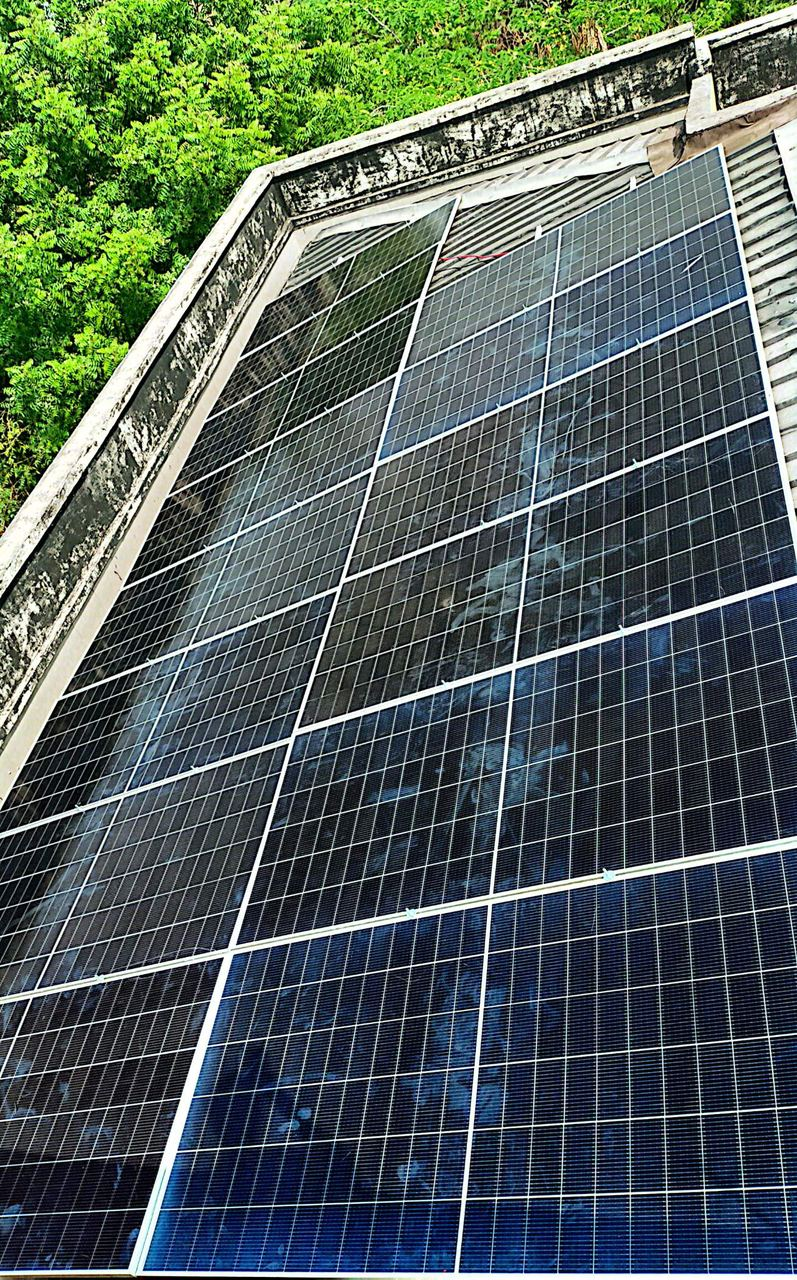
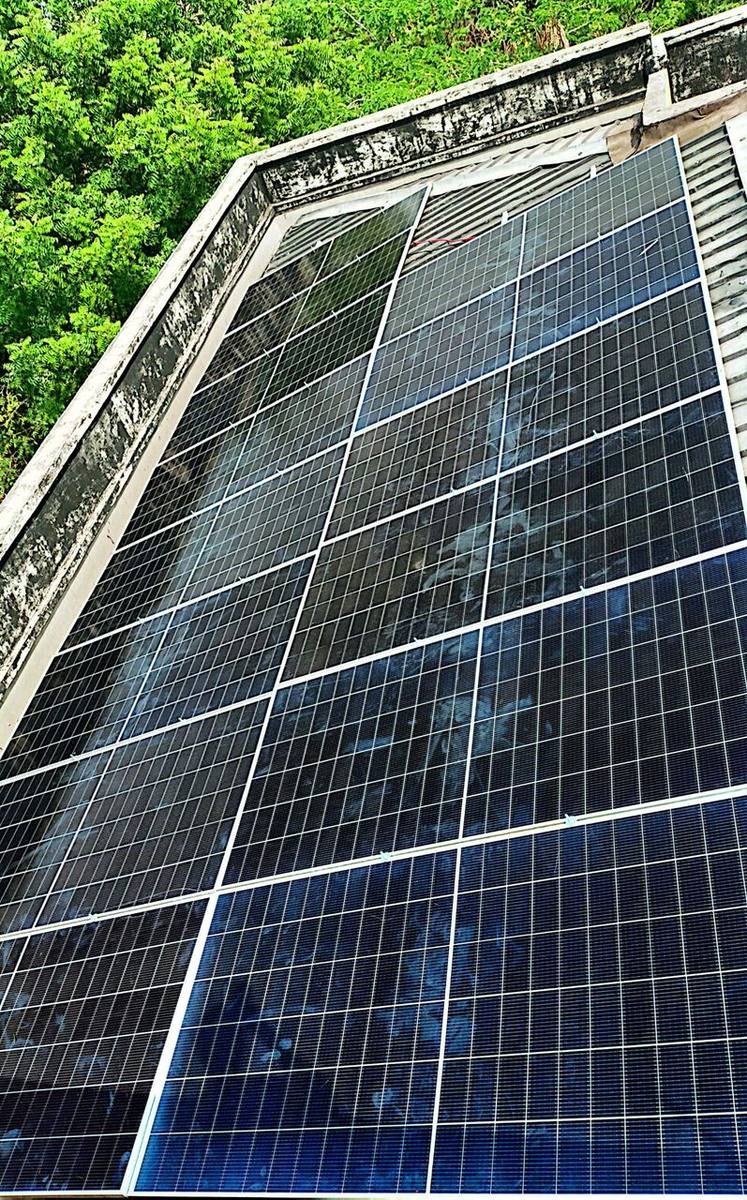
QA pass: SEO, honest claims, layout, images

diff --git a/site/about.html b/site/about.html
@@ -4,12 +4,12 @@
   <meta charset="UTF-8">
   <meta name="viewport" content="width=device-width, initial-scale=1.0">
   <title>About Us | Bolex Power Solutions — Solar & Electrical Experts</title>
-  <meta name="description" content="Six years of solar, inverter and electrical experience. Learn how Bolex Power Solutions sizes systems correctly, delivers promptly and supports customers after handover.">
+  <meta name="description" content="How Bolex Power Solutions sizes solar and inverter systems correctly, delivers promptly and supports customers after handover.">
   <link rel="canonical" href="https://bolexpower.com/about.html">
   <!-- Open Graph (social sharing) -->
   <meta property="og:type" content="website">
   <meta property="og:title" content="About Us | Bolex Power Solutions — Solar & Electrical Experts">
-  <meta property="og:description" content="Six years of solar, inverter and electrical experience. Learn how Bolex Power Solutions sizes systems correctly, delivers promptly and supports customers after handover.">
+  <meta property="og:description" content="How Bolex Power Solutions sizes solar and inverter systems correctly, delivers promptly and supports customers after handover.">
   <meta property="og:image" content="https://bolexpower.com/images/logo.png">
   <meta property="og:url" content="https://bolexpower.com/about.html">
   <meta name="twitter:card" content="summary_large_image">
@@ -89,7 +89,7 @@
     <div class="container">
       <p class="breadcrumb"><a href="index.html">Home</a> / About Us</p>
       <h1>About Bolex Power Solutions</h1>
-      <p>Trained in the trade, trusted on site. Six years of solar, inverter and electrical work delivered promptly and sized properly.</p>
+      <p>Trained in the trade, trusted on site — solar, inverter and electrical work delivered promptly and sized properly.</p>
     </div>
   </section>
 
@@ -154,7 +154,7 @@
         <p class="eyebrow">Working with us</p>
         <h2>How we work</h2>
       </div>
-      <div class="grid-4" style="grid-template-columns:repeat(auto-fit,minmax(230px,1fr))">
+      <div class="grid-4 steps-grid">
         <div class="step"><span class="num">1</span><h3>Call or Message</h3><p>Reach us on WhatsApp or by phone and tell us what you need.</p></div>
         <div class="step"><span class="num">2</span><h3>Site Visit</h3><p>We inspect the property, check your loads and take measurements.</p></div>
         <div class="step"><span class="num">3</span><h3>Quotation</h3><p>A clear quote for a correctly sized system.</p></div>
@@ -190,7 +190,7 @@
         <div class="trust-item"><div class="value">6 Years</div><div class="label">experience in the trade</div></div>
         <div class="trust-item"><div class="value">50+</div><div class="label">completed projects</div></div>
         <div class="trust-item"><div class="value">185 kWh</div><div class="label">largest project delivered</div></div>
-        <div class="trust-item"><div class="value">24/7</div><div class="label">WhatsApp after-sales support</div></div>
+        <div class="trust-item"><div class="value">WhatsApp</div><div class="label">&amp; call after-sales support</div></div>
       </div>
     </div>
   </section>

diff --git a/site/index.html b/site/index.html
@@ -3,13 +3,13 @@
 <head>
   <meta charset="UTF-8">
   <meta name="viewport" content="width=device-width, initial-scale=1.0">
-  <title>Bolex Power Solutions | Solar & Inverter Installation in Nigeria</title>
-  <meta name="description" content="Bolex Power Solutions: reliable solar and inverter installation, electrical wiring, CCTV and smart home services in Western and Southern Nigeria. CAC registered. Free quotes on WhatsApp.">
+  <title>Bolex Power Solutions | Solar & Inverters in Nigeria</title>
+  <meta name="description" content="Solar and inverter installation, electrical wiring, CCTV and smart home services in Western and Southern Nigeria. CAC registered. Free quotes on WhatsApp.">
   <link rel="canonical" href="https://bolexpower.com/index.html">
   <!-- Open Graph (social sharing) -->
   <meta property="og:type" content="website">
-  <meta property="og:title" content="Bolex Power Solutions | Solar & Inverter Installation in Nigeria">
-  <meta property="og:description" content="Bolex Power Solutions: reliable solar and inverter installation, electrical wiring, CCTV and smart home services in Western and Southern Nigeria. CAC registered. Free quotes on WhatsApp.">
+  <meta property="og:title" content="Bolex Power Solutions | Solar & Inverters in Nigeria">
+  <meta property="og:description" content="Solar and inverter installation, electrical wiring, CCTV and smart home services in Western and Southern Nigeria. CAC registered. Free quotes on WhatsApp.">
   <meta property="og:image" content="https://bolexpower.com/images/solar-roof-03.jpg">
   <meta property="og:url" content="https://bolexpower.com/index.html">
   <meta name="twitter:card" content="summary_large_image">
@@ -90,7 +90,7 @@
     <div class="container">
       <div class="hero-grid">
         <div>
-          <p class="eyebrow">CAC Registered • 6 Years of Experience</p>
+          <p class="eyebrow">Solar &amp; Inverter Installation in Nigeria</p>
           <h1>Reliable Solar &amp; Inverter Solutions for a <span class="accent">Brighter Tomorrow</span></h1>
           <p class="lead">Professional solar, inverter, electrical and security installation for homes, shops, offices and industry across Western and Southern Nigeria — sized correctly, installed properly, supported after handover.</p>
           <div class="btn-row">
@@ -195,7 +195,7 @@
         <h2>How we work</h2>
         <p>Clear steps from your first message to long-term after-sales support.</p>
       </div>
-      <div class="grid-4" style="grid-template-columns:repeat(auto-fit,minmax(230px,1fr))">
+      <div class="grid-4 steps-grid">
         <div class="step"><span class="num">1</span><h3>Call or Message</h3><p>Reach us on WhatsApp or by phone and tell us what you need.</p></div>
         <div class="step"><span class="num">2</span><h3>Site Visit</h3><p>We inspect the property, check your loads and roof, and take measurements.</p></div>
         <div class="step"><span class="num">3</span><h3>Quotation</h3><p>You receive a clear quote for the right-sized system — no oversizing, no undersizing.</p></div>

diff --git a/site/projects.html b/site/projects.html
@@ -3,12 +3,12 @@
 <head>
   <meta charset="UTF-8">
   <meta name="viewport" content="width=device-width, initial-scale=1.0">
-  <title>Projects | Solar, Inverter & Electrical Gallery — Bolex Power Solutions</title>
+  <title>Solar & Inverter Project Gallery | Bolex Power Solutions</title>
   <meta name="description" content="Photo gallery of completed solar roof installs, inverter and battery rooms, and wiring and panel work by Bolex Power Solutions.">
   <link rel="canonical" href="https://bolexpower.com/projects.html">
   <!-- Open Graph (social sharing) -->
   <meta property="og:type" content="website">
-  <meta property="og:title" content="Projects | Solar, Inverter & Electrical Gallery — Bolex Power Solutions">
+  <meta property="og:title" content="Solar & Inverter Project Gallery | Bolex Power Solutions">
   <meta property="og:description" content="Photo gallery of completed solar roof installs, inverter and battery rooms, and wiring and panel work by Bolex Power Solutions.">
   <meta property="og:image" content="https://bolexpower.com/images/solar-roof-01.jpg">
   <meta property="og:url" content="https://bolexpower.com/projects.html">
@@ -185,6 +185,18 @@
         <button class="g-item" data-cat="inverter" data-caption="Solar hybrid inverter">
           <img src="images/inverter-05.jpg" alt="Solar hybrid inverter front panel" loading="lazy">
           <span class="cap">Solar hybrid inverter</span>
+        </button>
+        <button class="g-item" data-cat="inverter" data-caption="Inverter & changeover switch">
+          <img src="images/inverter-03.jpg" alt="Hybrid inverter with changeover switch" loading="lazy">
+          <span class="cap">Inverter & changeover switch</span>
+        </button>
+        <button class="g-item" data-cat="inverter" data-caption="Inverter & wall-mounted battery">
+          <img src="images/inverter-04.jpg" alt="Inverter with wall-mounted battery bank" loading="lazy">
+          <span class="cap">Inverter & wall-mounted battery</span>
+        </button>
+        <button class="g-item" data-cat="inverter" data-caption="Charge controller & inverter">
+          <img src="images/inverter-06.jpg" alt="Solar charge controller and inverter installation" loading="lazy">
+          <span class="cap">Charge controller & inverter</span>
         </button>
       </div>
       <p class="muted mt-2">Selected clients &amp; projects include <strong>Williams Court Hotel</strong> and <strong>The Sons</strong>, alongside many homes and businesses across the region. More project photos are added regularly — follow us on <a href="https://www.instagram.com/bolexpower" target="_blank" rel="noopener">Instagram</a> and <a href="https://www.tiktok.com/@bolexpower" target="_blank" rel="noopener">TikTok</a> for the latest work.</p>

diff --git a/site/services.html b/site/services.html
@@ -3,13 +3,13 @@
 <head>
   <meta charset="UTF-8">
   <meta name="viewport" content="width=device-width, initial-scale=1.0">
-  <title>Services | Solar, Electrical, CCTV & Smart Home — Bolex Power Solutions</title>
-  <meta name="description" content="Solar and inverter installation, electrical wiring and industrial power, CCTV and security, smart home and audio-visual services in Western and Southern Nigeria.">
+  <title>Services: Solar, Electrical, CCTV | Bolex Power Solutions</title>
+  <meta name="description" content="Solar and inverter installation, electrical wiring, CCTV and security, and smart home services in Western and Southern Nigeria.">
   <link rel="canonical" href="https://bolexpower.com/services.html">
   <!-- Open Graph (social sharing) -->
   <meta property="og:type" content="website">
-  <meta property="og:title" content="Services | Solar, Electrical, CCTV & Smart Home — Bolex Power Solutions">
-  <meta property="og:description" content="Solar and inverter installation, electrical wiring and industrial power, CCTV and security, smart home and audio-visual services in Western and Southern Nigeria.">
+  <meta property="og:title" content="Services: Solar, Electrical, CCTV | Bolex Power Solutions">
+  <meta property="og:description" content="Solar and inverter installation, electrical wiring, CCTV and security, and smart home services in Western and Southern Nigeria.">
   <meta property="og:image" content="https://bolexpower.com/images/logo.png">
   <meta property="og:url" content="https://bolexpower.com/services.html">
   <meta name="twitter:card" content="summary_large_image">

diff --git a/site/faq.html b/site/faq.html
@@ -3,13 +3,13 @@
 <head>
   <meta charset="UTF-8">
   <meta name="viewport" content="width=device-width, initial-scale=1.0">
-  <title>FAQ | Bolex Power Solutions — Site Visits, Payment, Warranty & More</title>
-  <meta name="description" content="Answers about site visits, job timelines, payment by bank transfer, warranty and after-sales support, brands we install, and service areas across Western and Southern Nigeria.">
+  <title>FAQ: Payment, Warranty & More | Bolex Power Solutions</title>
+  <meta name="description" content="Answers on site visits, job timelines, payment, warranty and after-sales support, brands we install, and the areas we serve.">
   <link rel="canonical" href="https://bolexpower.com/faq.html">
   <!-- Open Graph (social sharing) -->
   <meta property="og:type" content="website">
-  <meta property="og:title" content="FAQ | Bolex Power Solutions — Site Visits, Payment, Warranty & More">
-  <meta property="og:description" content="Answers about site visits, job timelines, payment by bank transfer, warranty and after-sales support, brands we install, and service areas across Western and Southern Nigeria.">
+  <meta property="og:title" content="FAQ: Payment, Warranty & More | Bolex Power Solutions">
+  <meta property="og:description" content="Answers on site visits, job timelines, payment, warranty and after-sales support, brands we install, and the areas we serve.">
   <meta property="og:image" content="https://bolexpower.com/images/logo.png">
   <meta property="og:url" content="https://bolexpower.com/faq.html">
   <meta name="twitter:card" content="summary_large_image">

diff --git a/site/services-solar.html b/site/services-solar.html
@@ -4,12 +4,12 @@
   <meta charset="UTF-8">
   <meta name="viewport" content="width=device-width, initial-scale=1.0">
   <title>Solar & Inverter Installation | Bolex Power Solutions</title>
-  <meta name="description" content="Solar and inverter installation from 5 kW to 100 kW+ for homes, shops, offices, estates, churches, schools and factories. Lithium batteries, energy audits, maintenance and equipment supply.">
+  <meta name="description" content="Solar and inverter installation from 5 kW to 100 kW+. Lithium batteries, energy audits, maintenance and equipment supply for homes and businesses.">
   <link rel="canonical" href="https://bolexpower.com/services-solar.html">
   <!-- Open Graph (social sharing) -->
   <meta property="og:type" content="website">
   <meta property="og:title" content="Solar & Inverter Installation | Bolex Power Solutions">
-  <meta property="og:description" content="Solar and inverter installation from 5 kW to 100 kW+ for homes, shops, offices, estates, churches, schools and factories. Lithium batteries, energy audits, maintenance and equipment supply.">
+  <meta property="og:description" content="Solar and inverter installation from 5 kW to 100 kW+. Lithium batteries, energy audits, maintenance and equipment supply for homes and businesses.">
   <meta property="og:image" content="https://bolexpower.com/images/solar-roof-01.jpg">
   <meta property="og:url" content="https://bolexpower.com/services-solar.html">
   <meta name="twitter:card" content="summary_large_image">

diff --git a/site/services-electrical.html b/site/services-electrical.html
@@ -4,12 +4,12 @@
   <meta charset="UTF-8">
   <meta name="viewport" content="width=device-width, initial-scale=1.0">
   <title>Electrical Wiring & Industrial Power | Bolex Power Solutions</title>
-  <meta name="description" content="House and commercial wiring, rewiring, fault finding, earthing, surge protection, distribution boards, safety inspections with certificate, and industrial 3-phase power.">
+  <meta name="description" content="House and commercial wiring, fault finding, earthing, surge protection, distribution boards, safety certificates and industrial 3-phase power.">
   <link rel="canonical" href="https://bolexpower.com/services-electrical.html">
   <!-- Open Graph (social sharing) -->
   <meta property="og:type" content="website">
   <meta property="og:title" content="Electrical Wiring & Industrial Power | Bolex Power Solutions">
-  <meta property="og:description" content="House and commercial wiring, rewiring, fault finding, earthing, surge protection, distribution boards, safety inspections with certificate, and industrial 3-phase power.">
+  <meta property="og:description" content="House and commercial wiring, fault finding, earthing, surge protection, distribution boards, safety certificates and industrial 3-phase power.">
   <meta property="og:image" content="https://bolexpower.com/images/logo.png">
   <meta property="og:url" content="https://bolexpower.com/services-electrical.html">
   <meta name="twitter:card" content="summary_large_image">

diff --git a/site/services-smart.html b/site/services-smart.html
@@ -4,12 +4,12 @@
   <meta charset="UTF-8">
   <meta name="viewport" content="width=device-width, initial-scale=1.0">
   <title>Smart Home, Audio-Visual & Lighting | Bolex Power Solutions</title>
-  <meta name="description" content="Smart lighting and switches, app and voice control, smart locks, home theatre, ceiling speakers, church and event sound, PA systems, decorative and outdoor lighting, DStv installation.">
+  <meta name="description" content="Smart lighting, app and voice control, smart locks, home theatre, event sound, PA systems, outdoor lighting and DStv installation.">
   <link rel="canonical" href="https://bolexpower.com/services-smart.html">
   <!-- Open Graph (social sharing) -->
   <meta property="og:type" content="website">
   <meta property="og:title" content="Smart Home, Audio-Visual & Lighting | Bolex Power Solutions">
-  <meta property="og:description" content="Smart lighting and switches, app and voice control, smart locks, home theatre, ceiling speakers, church and event sound, PA systems, decorative and outdoor lighting, DStv installation.">
+  <meta property="og:description" content="Smart lighting, app and voice control, smart locks, home theatre, event sound, PA systems, outdoor lighting and DStv installation.">
   <meta property="og:image" content="https://bolexpower.com/images/logo.png">
   <meta property="og:url" content="https://bolexpower.com/services-smart.html">
   <meta name="twitter:card" content="summary_large_image">

diff --git a/site/services-security.html b/site/services-security.html
@@ -4,12 +4,12 @@
   <meta charset="UTF-8">
   <meta name="viewport" content="width=device-width, initial-scale=1.0">
   <title>CCTV & Security Systems | Bolex Power Solutions</title>
-  <meta name="description" content="Wireless and solar-powered CCTV cameras with phone remote viewing, alarms, electric fences, gate automation, access control, intercoms and security maintenance contracts.">
+  <meta name="description" content="Wireless and solar CCTV with phone remote viewing, alarms, electric fences, gate automation, access control, intercoms and maintenance contracts.">
   <link rel="canonical" href="https://bolexpower.com/services-security.html">
   <!-- Open Graph (social sharing) -->
   <meta property="og:type" content="website">
   <meta property="og:title" content="CCTV & Security Systems | Bolex Power Solutions">
-  <meta property="og:description" content="Wireless and solar-powered CCTV cameras with phone remote viewing, alarms, electric fences, gate automation, access control, intercoms and security maintenance contracts.">
+  <meta property="og:description" content="Wireless and solar CCTV with phone remote viewing, alarms, electric fences, gate automation, access control, intercoms and maintenance contracts.">
   <meta property="og:image" content="https://bolexpower.com/images/logo.png">
   <meta property="og:url" content="https://bolexpower.com/services-security.html">
   <meta name="twitter:card" content="summary_large_image">

diff --git a/site/products.html b/site/products.html
@@ -3,12 +3,12 @@
 <head>
   <meta charset="UTF-8">
   <meta name="viewport" content="width=device-width, initial-scale=1.0">
-  <title>Products | Inverters, Solar Panels, Lithium Batteries & More — Bolex Power Solutions</title>
+  <title>Inverters, Solar Panels & Batteries | Bolex Power Solutions</title>
   <meta name="description" content="Enquire on WhatsApp about hybrid inverters, solar panels, lithium batteries, CCTV cameras, cables and LED lighting. Genuine equipment with installation available.">
   <link rel="canonical" href="https://bolexpower.com/products.html">
   <!-- Open Graph (social sharing) -->
   <meta property="og:type" content="website">
-  <meta property="og:title" content="Products | Inverters, Solar Panels, Lithium Batteries & More — Bolex Power Solutions">
+  <meta property="og:title" content="Inverters, Solar Panels & Batteries | Bolex Power Solutions">
   <meta property="og:description" content="Enquire on WhatsApp about hybrid inverters, solar panels, lithium batteries, CCTV cameras, cables and LED lighting. Genuine equipment with installation available.">
   <meta property="og:image" content="https://bolexpower.com/images/logo.png">
   <meta property="og:url" content="https://bolexpower.com/products.html">

diff --git a/site/tips-size-solar.html b/site/tips-size-solar.html
@@ -3,12 +3,12 @@
 <head>
   <meta charset="UTF-8">
   <meta name="viewport" content="width=device-width, initial-scale=1.0">
-  <title>How to Size a Solar System for Your Home | Bolex Power Solutions</title>
+  <title>How to Size a Home Solar System | Bolex Power Solutions</title>
   <meta name="description" content="Learn how to size a home solar system: daily load, inverter capacity, battery backup hours and solar array — with tips from Bolex Power Solutions.">
   <link rel="canonical" href="https://bolexpower.com/tips-size-solar.html">
   <!-- Open Graph (social sharing) -->
   <meta property="og:type" content="website">
-  <meta property="og:title" content="How to Size a Solar System for Your Home | Bolex Power Solutions">
+  <meta property="og:title" content="How to Size a Home Solar System | Bolex Power Solutions">
   <meta property="og:description" content="Learn how to size a home solar system: daily load, inverter capacity, battery backup hours and solar array — with tips from Bolex Power Solutions.">
   <meta property="og:image" content="https://bolexpower.com/images/solar-roof-05.jpg">
   <meta property="og:url" content="https://bolexpower.com/tips-size-solar.html">

diff --git a/site/calculator.html b/site/calculator.html
@@ -3,12 +3,12 @@
 <head>
   <meta charset="UTF-8">
   <meta name="viewport" content="width=device-width, initial-scale=1.0">
-  <title>Solar Load Calculator | Estimate Your System Size — Bolex Power Solutions</title>
+  <title>Solar Load Calculator | Bolex Power Solutions</title>
   <meta name="description" content="Free solar load calculator: select your appliances and get a rough inverter size, battery capacity and solar array estimate. Get an exact quote on WhatsApp.">
   <link rel="canonical" href="https://bolexpower.com/calculator.html">
   <!-- Open Graph (social sharing) -->
   <meta property="og:type" content="website">
-  <meta property="og:title" content="Solar Load Calculator | Estimate Your System Size — Bolex Power Solutions">
+  <meta property="og:title" content="Solar Load Calculator | Bolex Power Solutions">
   <meta property="og:description" content="Free solar load calculator: select your appliances and get a rough inverter size, battery capacity and solar array estimate. Get an exact quote on WhatsApp.">
   <meta property="og:image" content="https://bolexpower.com/images/logo.png">
   <meta property="og:url" content="https://bolexpower.com/calculator.html">
